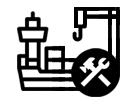
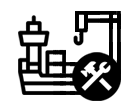
Add Cargo Owners

diff --git a/src/pages/OurUsers.js b/src/pages/OurUsers.js
@@ -9,6 +9,7 @@ import icon1 from "../assets/img/icon-1.png";
 import icon2 from "../assets/img/icon-2.png";
 import icon3 from "../assets/img/icon-3.png";
 import icon4 from "../assets/img/icon-4.png";
+import icon5 from "../assets/img/icon-5.png";
 
 function OurUsers() {
     return (
@@ -50,7 +51,7 @@ function OurUsers() {
                         <div data-wow-delay=".10s" className="col-lg-3 col-sm-12 wow fadeIn">
                             {/*<Link to="/individuals"><img src={icon4} className="icons " alt="" />*/}
                             {/*    <h4 className="font-lightblue"> Individuals</h4></Link>*/}
-                            <img src={icon4} className="icons " alt="" />
+                            <img src={icon5} className="icons " alt="" />
                             <h4 className="font-lightblue"> Cargo Owners</h4>
                         </div>
 

diff --git a/src/App.css b/src/App.css
@@ -2035,7 +2035,7 @@ li .shop-cart a:hover {
 }
 
 .font-lightblue {
-  color: #5e98ca;
+  color: #5e98ca;margin-top: 10px;
 }
 
 .minH-150 {
